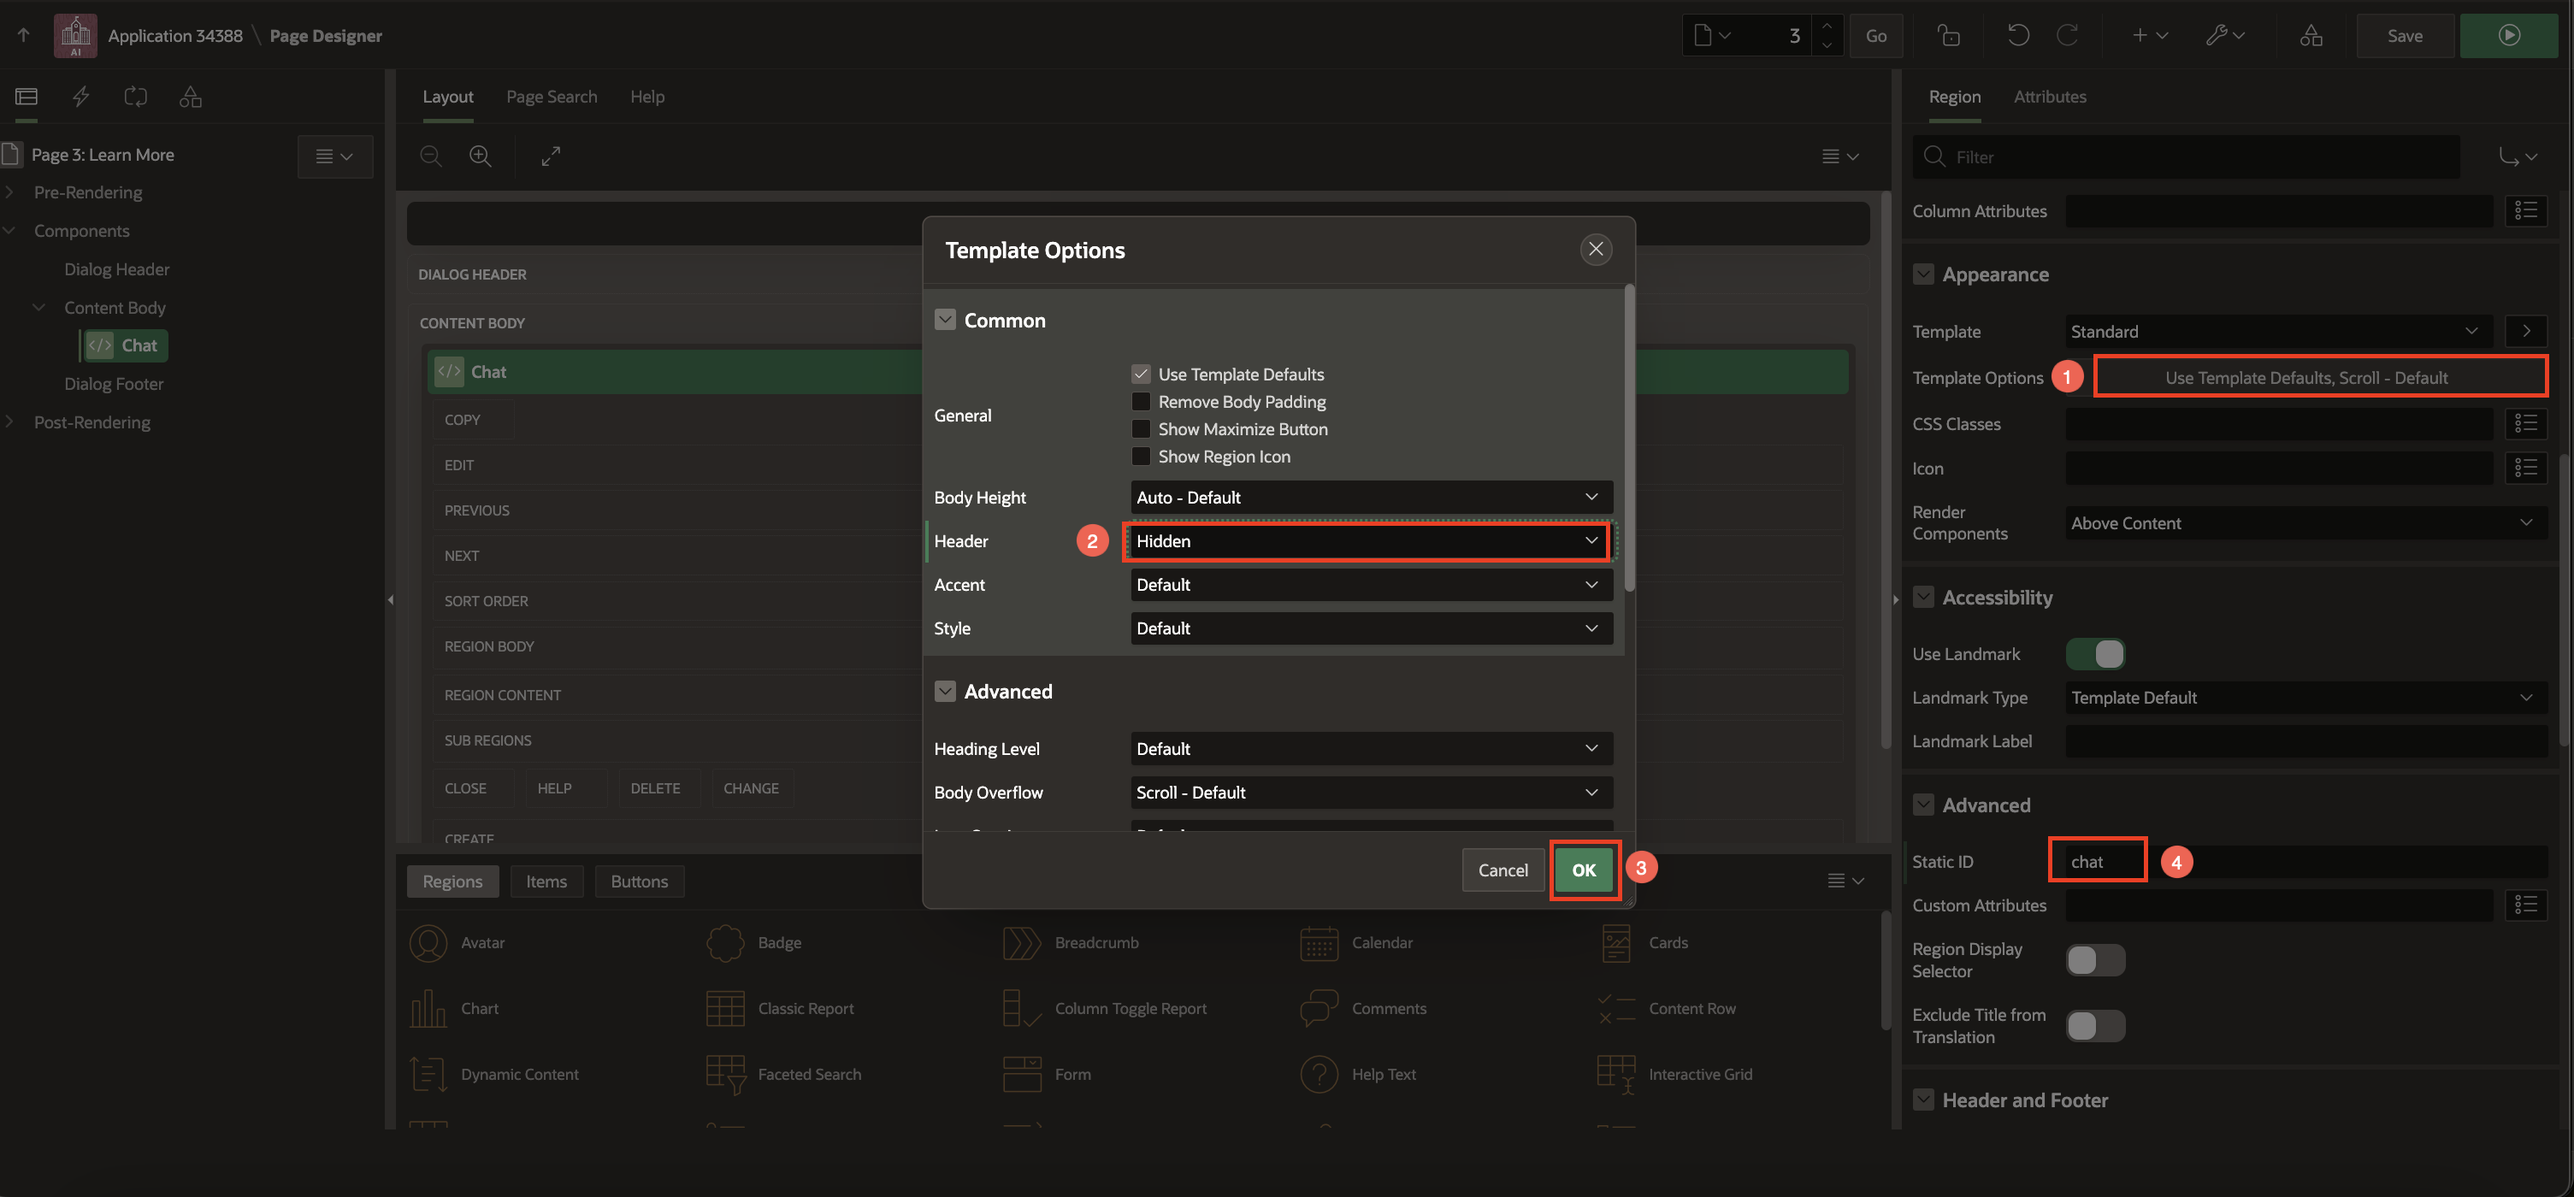
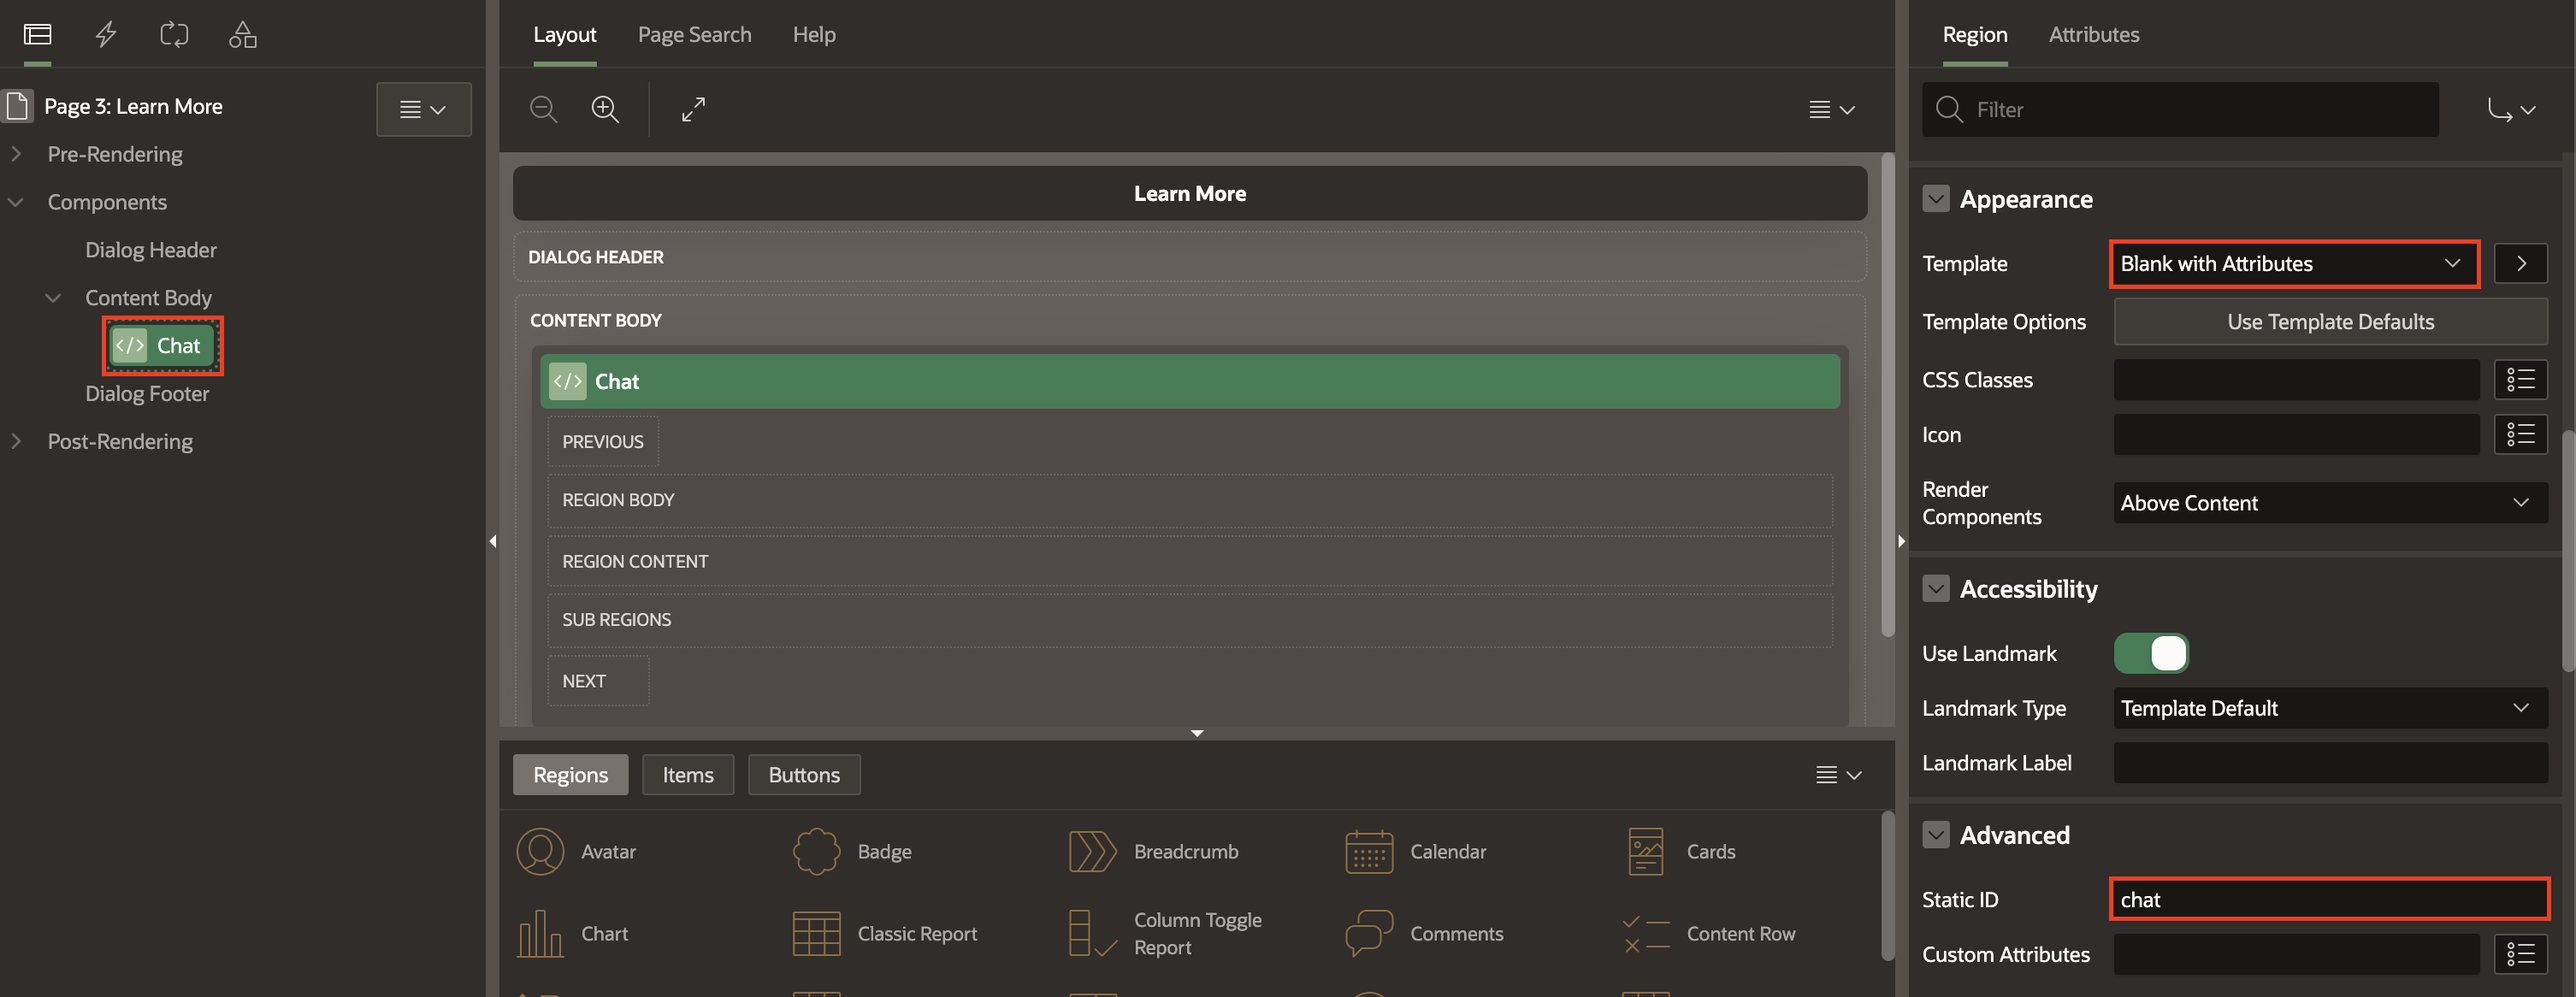
issue fix

diff --git a/nyc-genai-lab/3-using-genai/3-using-genai.md b/nyc-genai-lab/3-using-genai/3-using-genai.md
@@ -68,10 +68,7 @@ To use the Generative AI service in APEX, you need to first configure it at the 
     
     ![Page Designer](images/name-chat.png ' ')
 
-    - Under Appearance > Template Options:
-        - Header: **Hidden**
-        
-        Click **OK**.
+    - Appearance > Template: **Blank with Attributes**
 
     - Advanced > Static ID: **chat**
 
